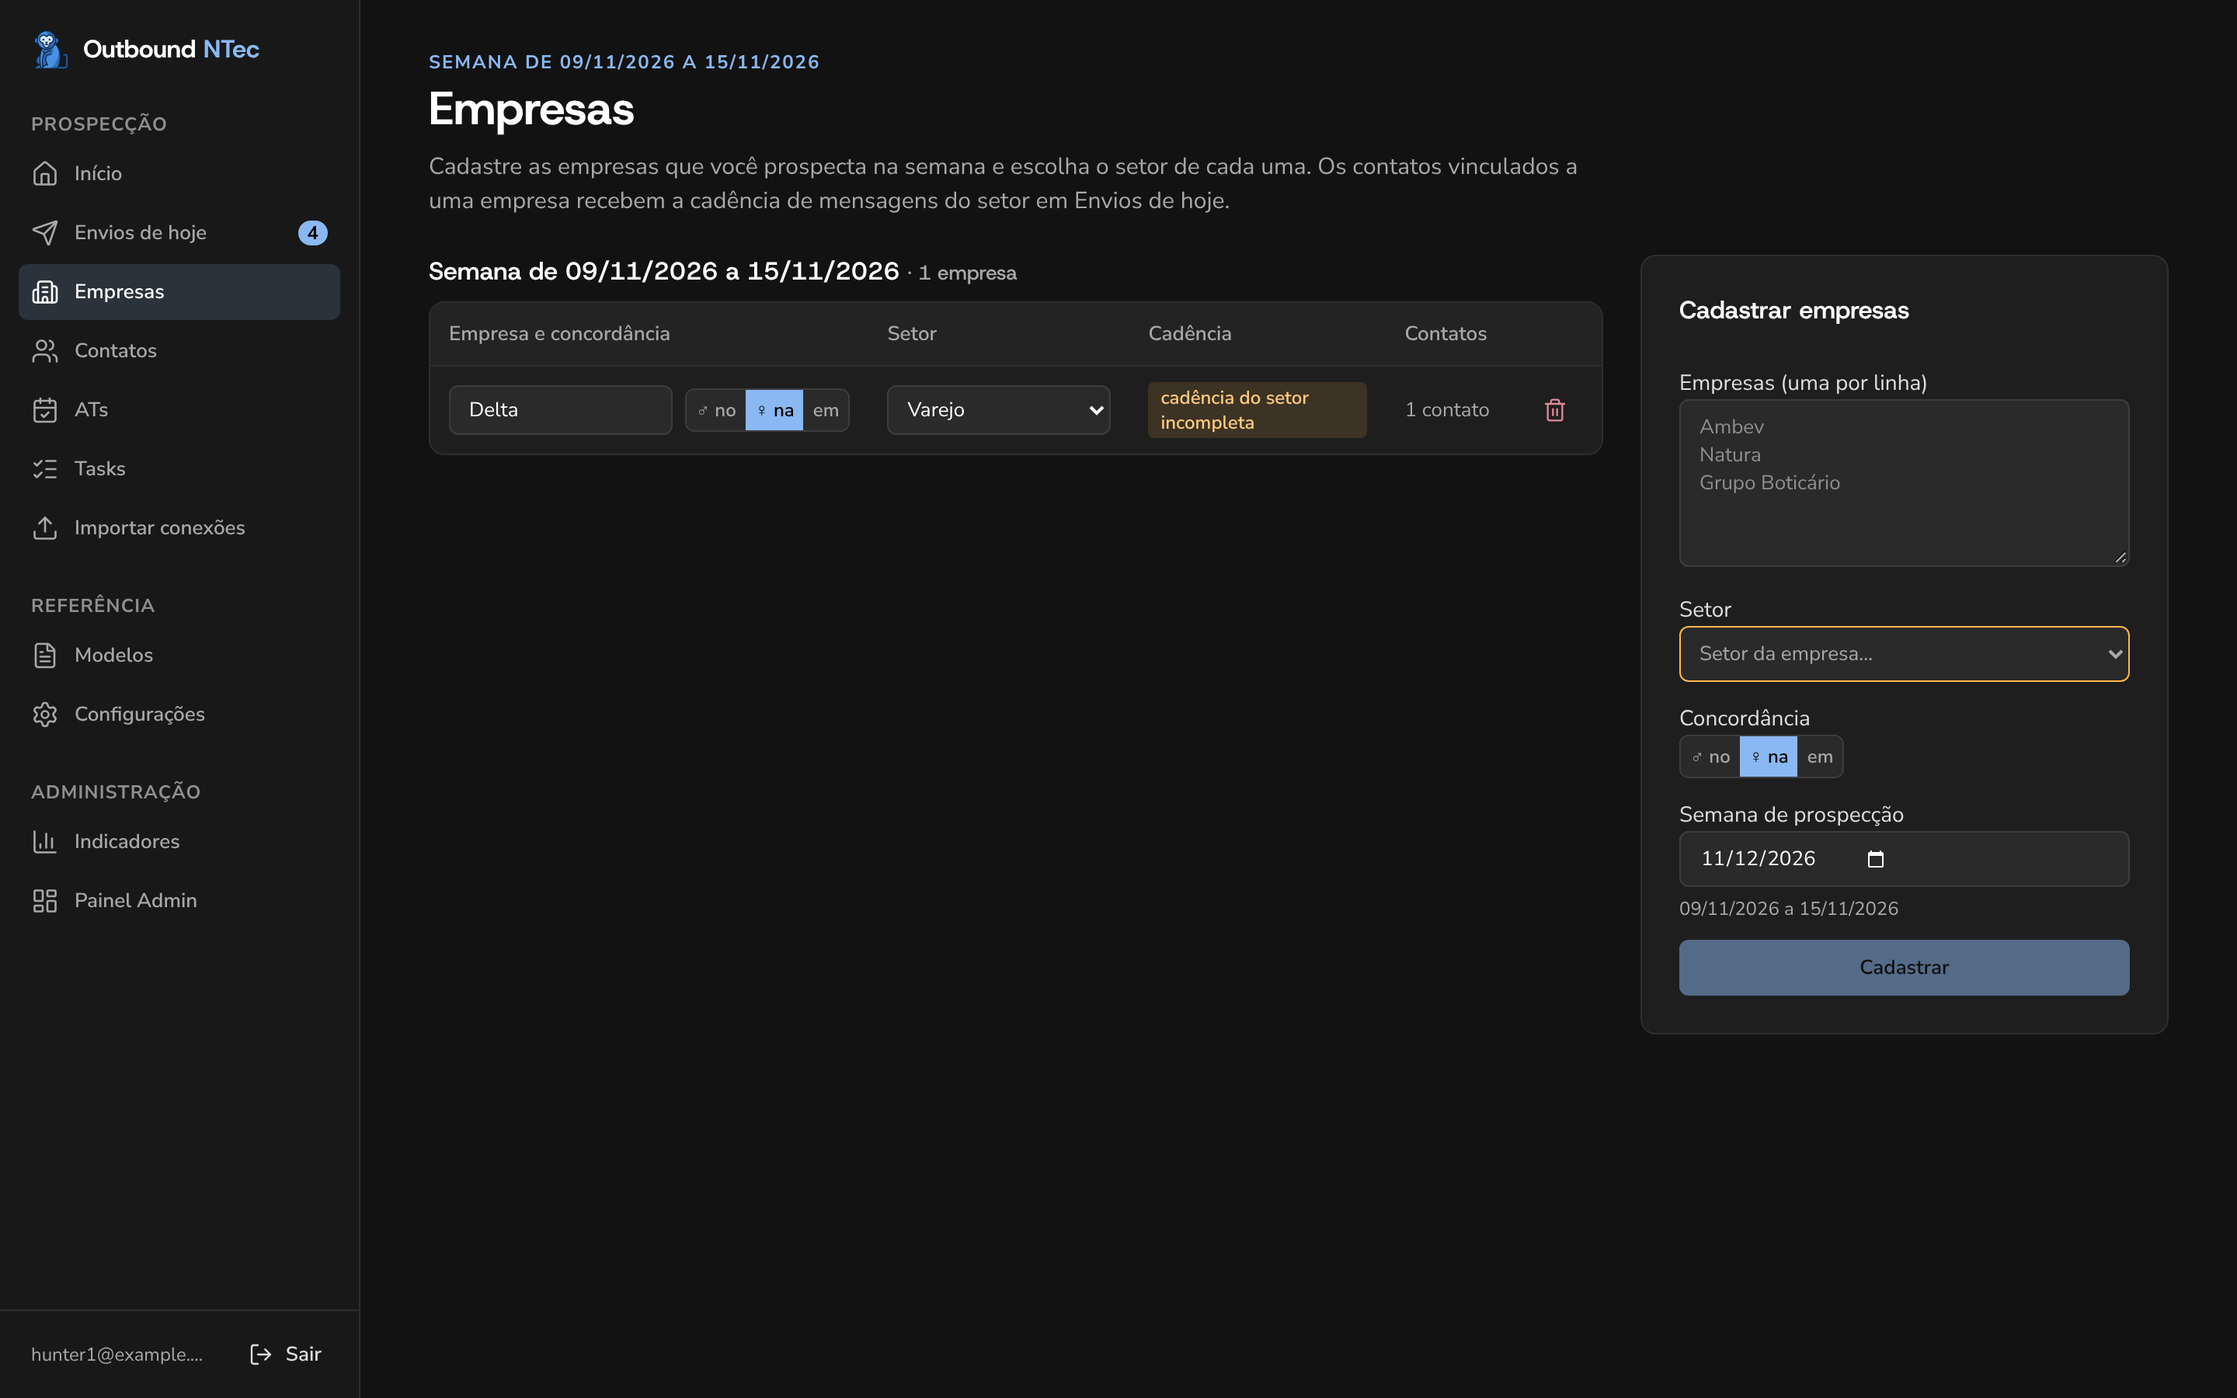
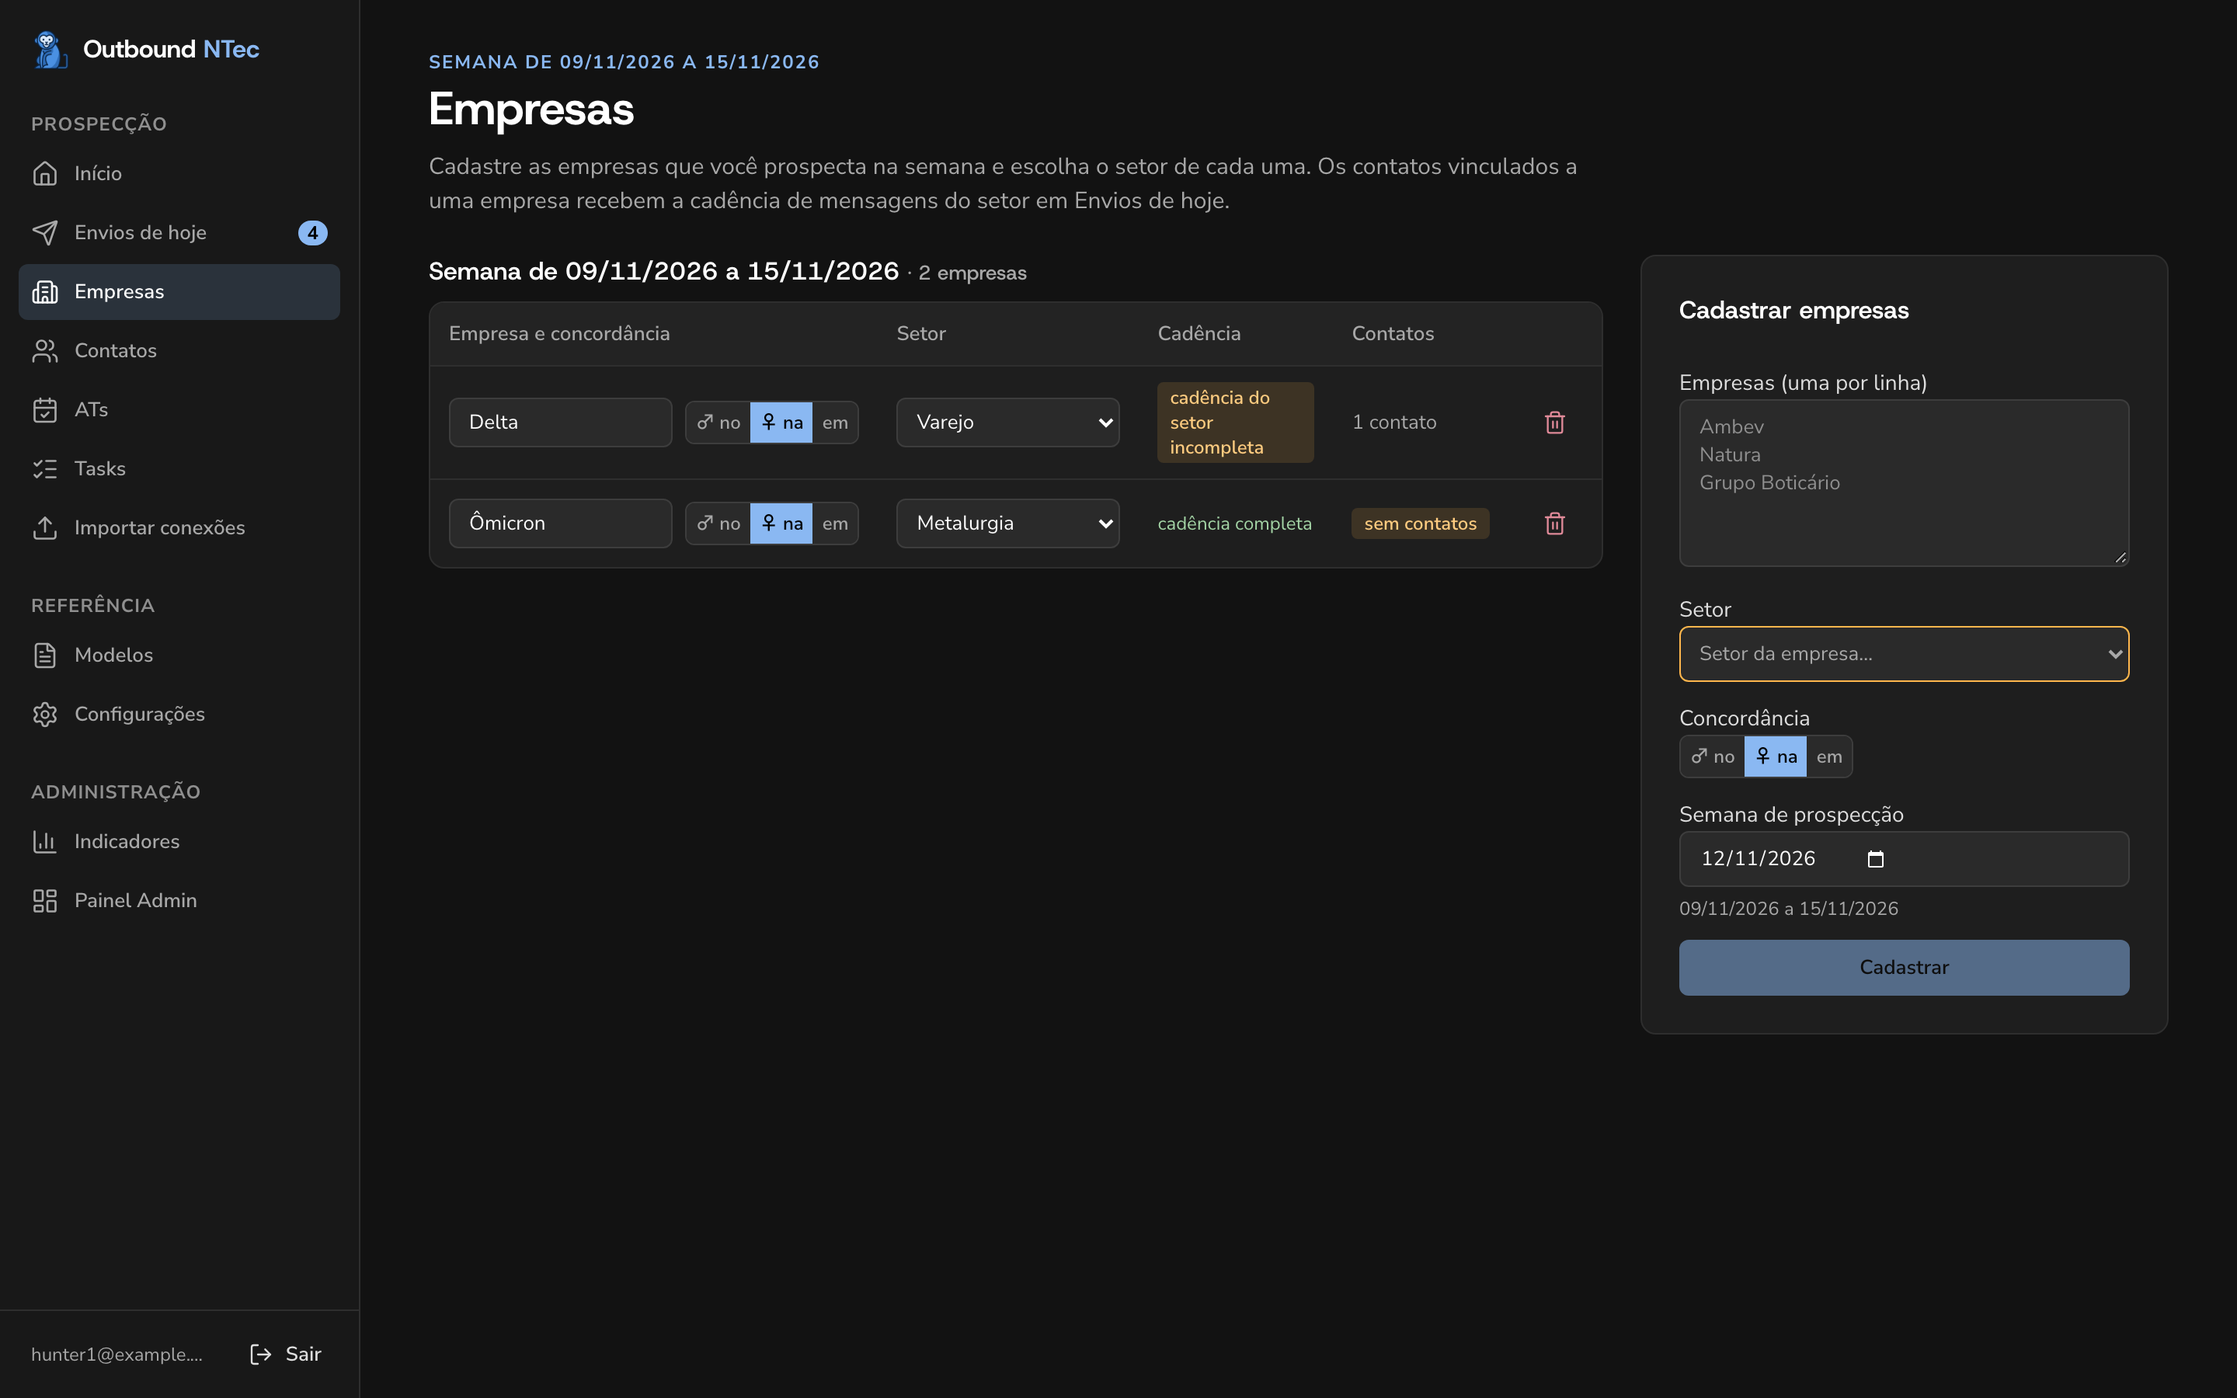
feat(empresas): escolhe setor e subsetor da empresa
O seletor de setor agrupa os subsetores ativos sob cada setor. O cadastro
grava subsector_id só quando há subsetor, a lista troca setor e subsetor
juntos (setor sozinho limpa o subsetor) e o aviso de cadência incompleta
considera a cadência do subsetor.

diff --git a/e2e/empresas.spec.ts b/e2e/empresas.spec.ts
@@ -4,6 +4,7 @@ import { expect, mutations, test } from "./helpers";
 const U1 = "11111111-1111-4111-8111-111111111111";
 const SETOR_VAREJO = "12121212-0000-4000-8000-000000000001";
 const SETOR_INDUSTRIA = "12121212-0000-4000-8000-000000000003";
+const SUBSETOR_METALURGIA = "12121212-0000-4000-8000-000000000004";
 
 test.describe("Empresas", () => {
   test("lista as empresas por semana, com setor e contatos vinculados", async ({ page }) => {
@@ -12,10 +13,11 @@ test.describe("Empresas", () => {
     await expect(
       page.getByRole("heading", { name: /^Semana de 09\/11\/2026 a 15\/11\/2026/ }),
     ).toBeVisible();
-    await expect(page.getByText("· 1 empresa", { exact: true })).toBeVisible();
-    await expect(page.getByPlaceholder("Empresa")).toHaveValue("Delta");
+    await expect(page.getByText("· 2 empresas", { exact: true })).toBeVisible();
+    await expect(page.getByPlaceholder("Empresa").first()).toHaveValue("Delta");
     await expect(page.getByText("1 contato", { exact: true })).toBeVisible();
-    await expect(page.getByText("cadência do setor incompleta")).toBeVisible();
+    // Só a Delta (Varejo) está incompleta; a Ômicron (Metalurgia) tem as 5 etapas.
+    await expect(page.getByText("cadência do setor incompleta")).toHaveCount(1);
   });
 
   test("cadastra várias empresas com o setor e a semana, sem repetir as já cadastradas", async ({
@@ -39,6 +41,54 @@ test.describe("Empresas", () => {
       { name: "Zeta", gender: "feminino", sector_id: SETOR_VAREJO, week_start: week, user_id: U1 },
       { name: "Ômega", gender: "feminino", sector_id: SETOR_VAREJO, week_start: week, user_id: U1 },
     ]);
+  });
+
+  test("cadastra a empresa com setor e subsetor e esconde subsetor inativo", async ({ page }) => {
+    await page.goto("/empresas");
+    await page.getByLabel("Empresas (uma por linha)").fill("Zeta");
+    const form = page.getByRole("form", { name: "Cadastrar empresas" });
+    const setor = form.getByRole("combobox", { name: "Setor da empresa" });
+    await expect(setor.locator("option", { hasText: "Metalurgia" })).toHaveCount(1);
+    await expect(setor.locator("option", { hasText: "Química" })).toHaveCount(0);
+    await setor.selectOption({ label: "Metalurgia" });
+    await form.getByRole("button", { name: "Cadastrar" }).click();
+    await expect(page.getByText("Empresa cadastrada")).toBeVisible();
+
+    const [m] = await mutations();
+    expect(m).toMatchObject({ method: "POST", table: "companies" });
+    expect(JSON.parse(m!.body)).toEqual([
+      {
+        name: "Zeta",
+        gender: "feminino",
+        sector_id: SETOR_INDUSTRIA,
+        subsector_id: SUBSETOR_METALURGIA,
+        week_start: "2026-11-09",
+        user_id: U1,
+      },
+    ]);
+  });
+
+  test("na lista, trocar o subsetor para o setor sozinho zera o subsetor e acusa a cadência incompleta", async ({
+    page,
+  }) => {
+    await page.goto("/empresas");
+    const linha = page
+      .getByRole("row")
+      .filter({ has: page.getByPlaceholder("Empresa") })
+      .filter({
+        has: page.locator('input[value="Ômicron"]'),
+      });
+    const setor = linha.getByRole("combobox", { name: "Setor da empresa" });
+    await expect(setor.locator("option:checked")).toHaveText("Metalurgia");
+    await expect(linha.getByText("cadência do setor incompleta")).toHaveCount(0);
+    await setor.selectOption({ label: "Indústria" });
+    await expect(page.getByText("Setor atualizado")).toBeVisible();
+
+    const m = (await mutations()).find((x) => x.table === "companies");
+    expect(m).toMatchObject({ method: "PATCH" });
+    expect(JSON.parse(m!.body)).toEqual({ sector_id: SETOR_INDUSTRIA, subsector_id: null });
+    // Sem o subsetor, a Indústria não tem mensagem nenhuma.
+    await expect(linha.getByText("cadência do setor incompleta")).toBeVisible();
   });
 
   test("contato vinculado a uma empresa recebe a cadência do setor", async ({ page }) => {

diff --git a/src/components/empresas/CompanyForm.tsx b/src/components/empresas/CompanyForm.tsx
@@ -1,7 +1,7 @@
 import { useState } from "react";
 import { toast } from "sonner";
 import { CompanyGenderToggle } from "@/components/CompanyGender";
-import { IndustrySelect } from "@/components/IndustrySelect";
+import { IndustrySelect, type SectorChoice } from "@/components/IndustrySelect";
 import { Button } from "@/components/ui/button";
 import { Card, CardContent, CardHeader, CardTitle } from "@/components/ui/card";
 import { Input } from "@/components/ui/input";
@@ -15,7 +15,7 @@ import {
   weekEndISO,
   weekStartISO,
   type Company,
-  type Sector,
+  type SectorNode,
 } from "@/lib/empresas";
 import { errorMessage } from "@/lib/utils";
 
@@ -25,12 +25,12 @@ export function CompanyForm({
   existing,
 }: {
   /** `undefined` enquanto os setores carregam. */
-  sectors: readonly Sector[] | undefined;
+  sectors: readonly SectorNode[] | undefined;
   existing: readonly Company[];
 }) {
   const add = useAddCompanies();
   const [text, setText] = useState("");
-  const [sectorId, setSectorId] = useState("");
+  const [choice, setChoice] = useState<SectorChoice | null>(null);
   const [gender, setGender] = useState<CompanyGender>("feminino");
   const [day, setDay] = useState(todayISO());
   const week = weekStartISO(day || todayISO());
@@ -39,11 +39,11 @@ export function CompanyForm({
   const names = parseCompanyLines(text);
   const fresh = names.filter((n) => !known.has(normalizeCompany(n)));
   const repeated = names.length - fresh.length;
-  const noSectors = !!sectors && sectors.every((s) => !s.active);
+  const noSectors = !!sectors && sectors.every((s) => !s.active || s.parent_id);
 
   function submit(e: React.FormEvent) {
     e.preventDefault();
-    if (!sectorId) {
+    if (!choice) {
       toast.error("Escolha o setor da empresa");
       return;
     }
@@ -52,7 +52,14 @@ export function CompanyForm({
       return;
     }
     add.mutate(
-      fresh.map((name) => ({ name, gender, sector_id: sectorId, week_start: week })),
+      fresh.map((name) => ({
+        name,
+        gender,
+        sector_id: choice.sector_id,
+        // A chave só vai quando há subsetor.
+        ...(choice.subsector_id ? { subsector_id: choice.subsector_id } : {}),
+        week_start: week,
+      })),
       {
         onSuccess: (n) => {
           toast.success(n === 1 ? "Empresa cadastrada" : `${n} empresas cadastradas`);
@@ -99,8 +106,9 @@ export function CompanyForm({
                 <Label>Setor</Label>
                 <IndustrySelect
                   sectors={sectors}
-                  value={sectorId}
-                  onChange={setSectorId}
+                  sectorId={choice?.sector_id ?? ""}
+                  subsectorId={choice?.subsector_id ?? null}
+                  onChange={setChoice}
                   className="w-full"
                 />
               </div>
@@ -125,7 +133,7 @@ export function CompanyForm({
               <Button
                 type="submit"
                 className="w-full"
-                disabled={add.isPending || fresh.length === 0 || !sectorId}
+                disabled={add.isPending || fresh.length === 0 || !choice}
               >
                 Cadastrar
               </Button>

diff --git a/src/components/IndustrySelect.tsx b/src/components/IndustrySelect.tsx
@@ -1,40 +1,70 @@
 import { NativeSelect } from "@/components/ui/native-select";
-import type { Sector } from "@/lib/empresas";
+import {
+  parseSectorOption,
+  sectorOptions,
+  sectorPath,
+  sectorOptionValue,
+  type SectorNode,
+} from "@/lib/empresas";
 import { cn } from "@/lib/utils";
 
+/** Escolha do seletor: o setor e, quando houver, o subsetor dele. */
+export type SectorChoice = { sector_id: string; subsector_id: string | null };
+
 /**
- * Seletor do setor (ramo de atuação) da empresa, que define a cadência de mensagens.
- * Lista os setores ativos; um setor já escolhido e depois desativado continua visível.
+ * Seletor setor › subsetor da empresa (ramo de atuação), que define a cadência de mensagens.
+ * Um grupo por setor: a opção do setor sozinho primeiro e os subsetores ativos depois. O valor
+ * já escolhido e depois desativado continua visível.
  */
 export function IndustrySelect({
   sectors,
-  value,
+  sectorId,
+  subsectorId,
   onChange,
   className,
   placeholder = "Setor da empresa…",
 }: {
-  sectors: readonly Sector[];
-  value: string;
-  onChange: (id: string) => void;
+  /** Setores e subsetores (`useSectorTree`). */
+  sectors: readonly SectorNode[];
+  sectorId: string;
+  subsectorId: string | null;
+  onChange: (choice: SectorChoice) => void;
   className?: string;
   placeholder?: string;
 }) {
-  const options = sectors.filter((s) => s.active || s.id === value);
+  const options = sectorOptions(sectors, { sectorId: sectorId || null, subsectorId });
+  const value = sectorId ? sectorOptionValue(sectorId, subsectorId) : "";
+  const groups = [...new Set(options.map((o) => o.group))];
   return (
     <NativeSelect
       aria-label="Setor da empresa"
+      title={sectorPath(sectors, sectorId, subsectorId) || undefined}
       className={cn(!value && "border-warning text-muted-foreground", className)}
       value={value}
-      onChange={(e) => e.target.value && onChange(e.target.value)}
+      onChange={(e) => {
+        const parsed = parseSectorOption(e.target.value);
+        if (parsed) onChange({ sector_id: parsed.sectorId, subsector_id: parsed.subsectorId });
+      }}
     >
       <option value="" disabled>
         {placeholder}
       </option>
-      {options.map((s) => (
-        <option key={s.id} value={s.id}>
-          {s.name}
-          {s.active ? "" : " (inativo)"}
-        </option>
+      {groups.map((group) => (
+        <optgroup key={group} label={group}>
+          {options
+            .filter((o) => o.group === group)
+            .map((o) => {
+              const node = sectors.find((s) => s.id === (o.subsectorId ?? o.sectorId));
+              const top = sectors.find((s) => s.id === o.sectorId);
+              const inativo = node?.active === false || top?.active === false;
+              return (
+                <option key={o.value} value={o.value}>
+                  {o.label}
+                  {inativo ? " (inativo)" : ""}
+                </option>
+              );
+            })}
+        </optgroup>
       ))}
     </NativeSelect>
   );

diff --git a/src/components/empresas/CompanyList.tsx b/src/components/empresas/CompanyList.tsx
@@ -14,14 +14,14 @@ import {
   TableRow,
 } from "@/components/ui/table";
 import { useDeleteCompany, useUpdateCompany } from "@/hooks/useCadencia";
-import { STEPS, formatBR } from "@/lib/cadencia";
+import { formatBR } from "@/lib/cadencia";
 import {
   groupByWeek,
-  missingSteps,
+  cadenceGaps,
   weekEndISO,
   type Company,
-  type Sector,
-  type SectorTemplates,
+  type SectorCadences,
+  type SectorNode,
 } from "@/lib/empresas";
 import { errorMessage } from "@/lib/utils";
 
@@ -29,13 +29,13 @@ import { errorMessage } from "@/lib/utils";
 export function CompanyList({
   companies,
   sectors,
-  sectorTemplates,
+  cadences,
   contactCount,
   ask,
 }: {
   companies: readonly Company[];
-  sectors: readonly Sector[];
-  sectorTemplates: SectorTemplates;
+  sectors: readonly SectorNode[];
+  cadences: SectorCadences;
   contactCount: ReadonlyMap<string, number>;
   ask: Ask;
 }) {
@@ -87,7 +87,7 @@ export function CompanyList({
               <TableBody>
                 {list.map((c) => {
                   const n = contactCount.get(c.id) ?? 0;
-                  const incompleta = missingSteps(sectorTemplates[c.sector_id], STEPS).length > 0;
+                  const incompleta = cadenceGaps(cadences, c.sector_id, c.subsector_id).length > 0;
                   return (
                     <TableRow key={c.id}>
                       <TableCell>
@@ -109,8 +109,9 @@ export function CompanyList({
                       <TableCell>
                         <IndustrySelect
                           sectors={sectors}
-                          value={c.sector_id}
-                          onChange={(id) => patch(c, { sector_id: id }, "Setor atualizado")}
+                          sectorId={c.sector_id}
+                          subsectorId={c.subsector_id}
+                          onChange={(v) => patch(c, v, "Setor atualizado")}
                           className="h-8 w-36"
                         />
                       </TableCell>
@@ -118,7 +119,7 @@ export function CompanyList({
                         {incompleta ? (
                           <span
                             className="inline-block rounded-sm bg-warning-soft px-2 py-0.5 text-caption font-semibold text-warning-text"
-                            title="Etapas sem mensagem própria do setor usam o modelo padrão"
+                            title="Etapas sem mensagem própria do subsetor ou do setor usam o modelo padrão"
                           >
                             cadência do setor incompleta
                           </span>

diff --git a/src/routes/_authenticated/empresas.tsx b/src/routes/_authenticated/empresas.tsx
@@ -5,7 +5,7 @@ import { CompanyList } from "@/components/empresas/CompanyList";
 import { useConfirm } from "@/components/useConfirm";
 import { formatBR, todayISO } from "@/lib/cadencia";
 import { weekEndISO, weekStartISO } from "@/lib/empresas";
-import { useCompanies, useContacts, useSectorTemplates, useSectors } from "@/hooks/useCadencia";
+import { useCompanies, useContacts, useSectorCadences, useSectorTree } from "@/hooks/useCadencia";
 
 export const Route = createFileRoute("/_authenticated/empresas")({
   head: () => ({
@@ -27,8 +27,8 @@ export const Route = createFileRoute("/_authenticated/empresas")({
 
 function Empresas() {
   const { data: companies } = useCompanies();
-  const { data: sectors } = useSectors();
-  const { data: sectorTemplates } = useSectorTemplates();
+  const { data: sectors } = useSectorTree();
+  const { data: cadences } = useSectorCadences();
   const { data: contacts } = useContacts();
   const { ask, dialog } = useConfirm();
   const semana = weekStartISO(todayISO());
@@ -57,7 +57,7 @@ function Empresas() {
         <CompanyList
           companies={companies ?? []}
           sectors={sectors ?? []}
-          sectorTemplates={sectorTemplates ?? {}}
+          cadences={cadences ?? {}}
           contactCount={contactCount}
           ask={ask}
         />

diff --git a/e2e/indicadores.spec.ts b/e2e/indicadores.spec.ts
@@ -95,8 +95,10 @@ test.describe("Indicadores", () => {
     const alertas = page.getByRole("region", { name: /^Quem precisa de ajuda/ });
     await expect(alertas.getByRole("listitem")).toHaveCount(5);
     await expect(alertas.getByText(/setor Varejo/)).toHaveCount(0);
-    await alertas.getByRole("button", { name: "Ver todos os 7" }).click();
-    await expect(alertas.getByRole("listitem")).toHaveCount(7);
+    // Inclui "empresa Ômicron sem nenhum contato" e "setor Indústria: cadência sem mensagem própria".
+    // Este último é falso positivo conhecido: o alerta olha só o setor, não a cadência do subsetor.
+    await alertas.getByRole("button", { name: "Ver todos os 9" }).click();
+    await expect(alertas.getByRole("listitem")).toHaveCount(9);
     await expect(alertas.getByText(/setor Varejo/)).toBeVisible();
     await alertas.getByRole("button", { name: "Mostrar só os mais urgentes" }).click();
     await expect(alertas.getByRole("listitem")).toHaveCount(5);
